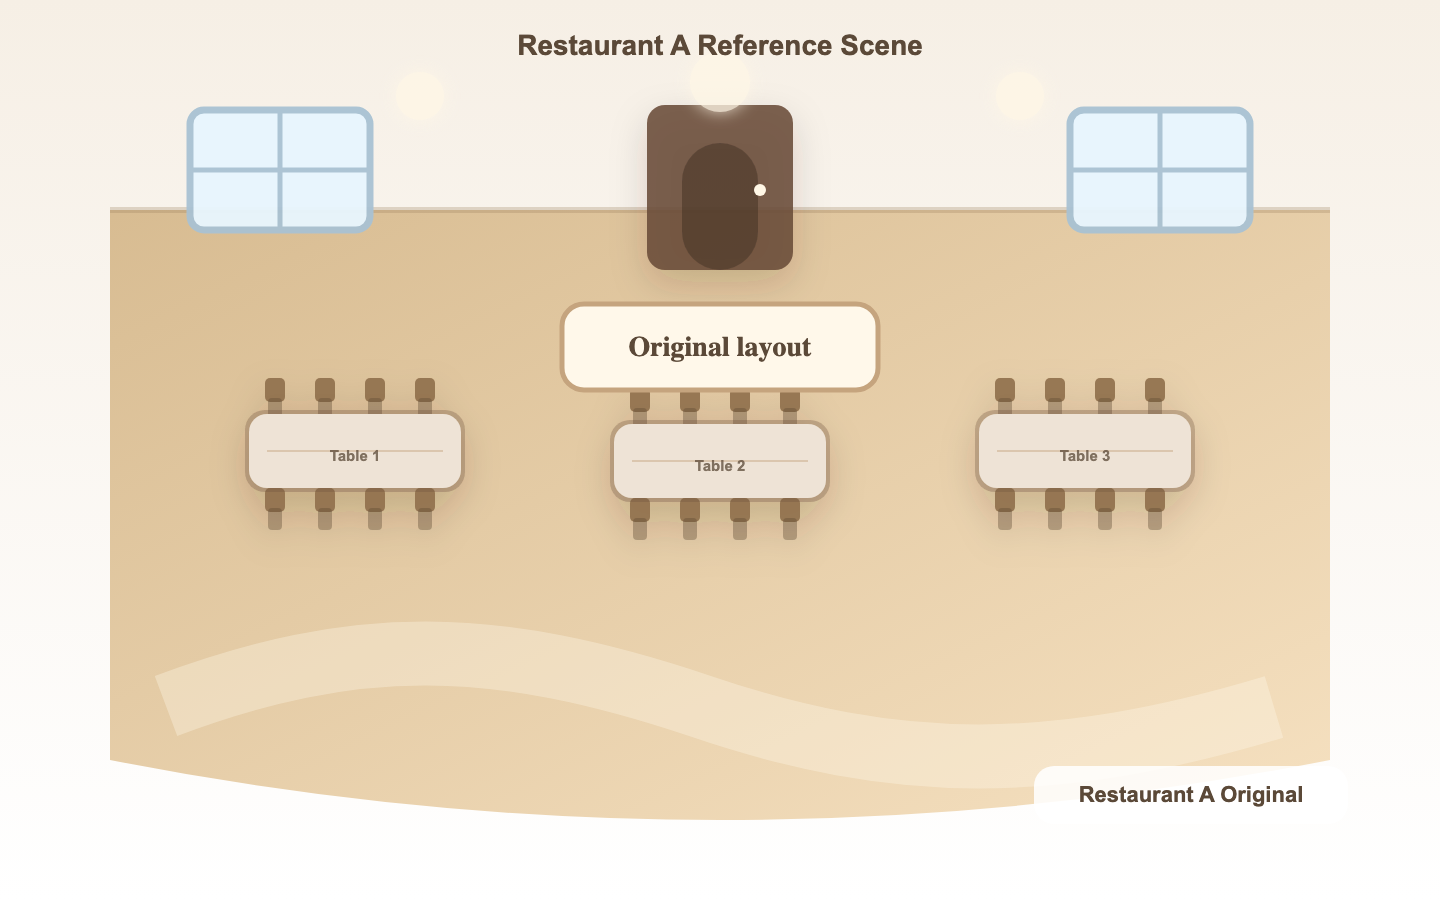
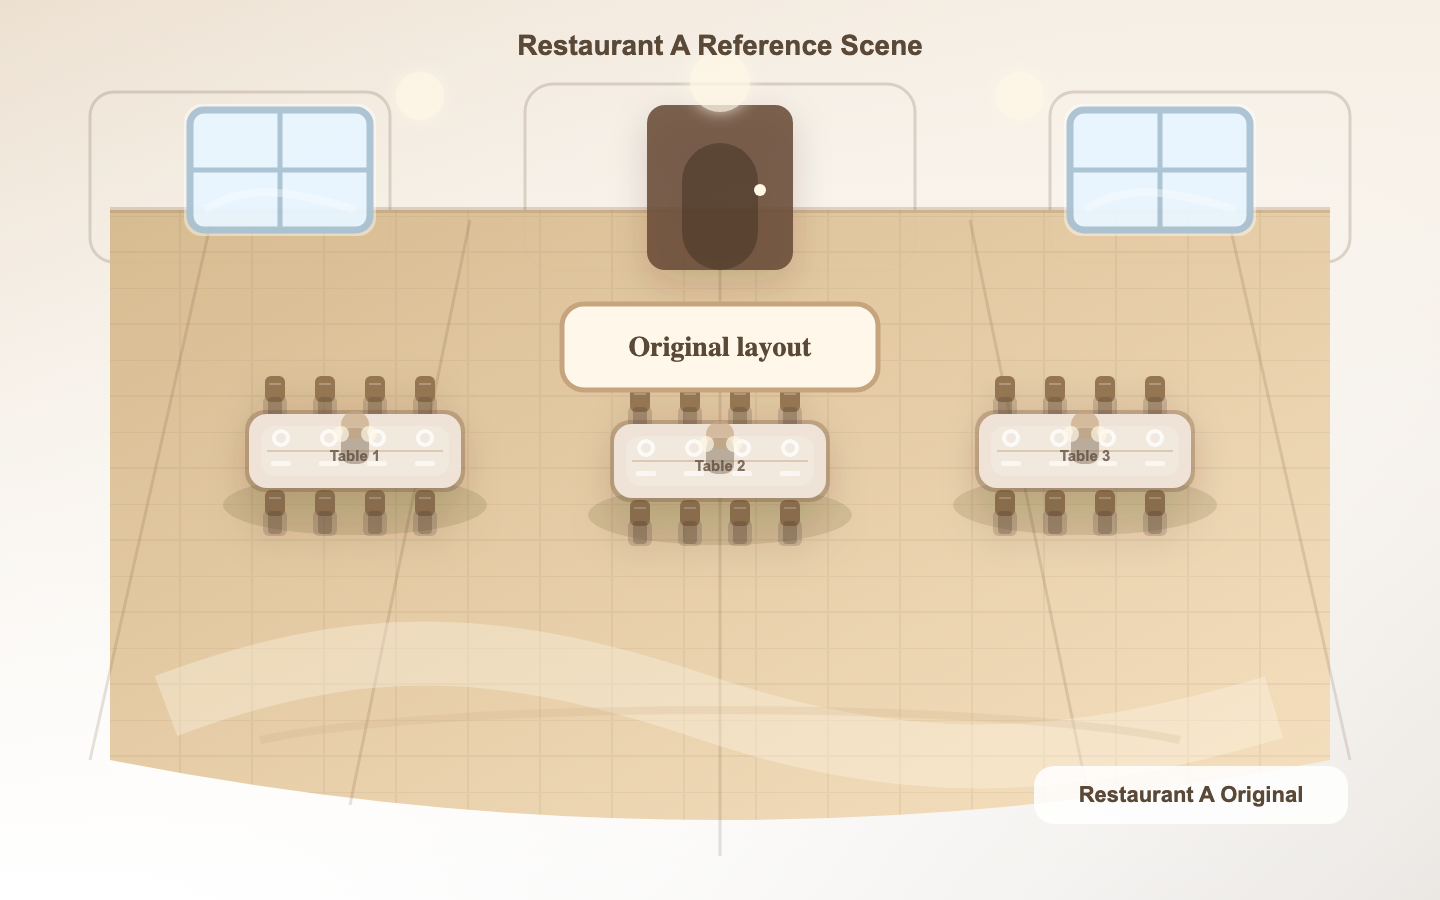
Upgrade visual scene rendering assets

diff --git a/docs/PARTYONCE_VISUAL_SCENE_RENDERING_UPGRADE_WORKPACK_20260514.md b/docs/PARTYONCE_VISUAL_SCENE_RENDERING_UPGRADE_WORKPACK_20260514.md
@@ -1,0 +1,157 @@
+# PartyOnce Visual Scene Rendering Upgrade Workpack 20260514
+
+## 1. 本轮目标
+
+本轮进入 Phase 2：视觉与场景渲染升级。
+
+目标不是新增普通功能，而是把 Restaurant A、Castle / Space / Forest 三主题、Basic / Standard / Premium 三档套餐从“可用图”继续推进到更有说服力的投资人和客户演示资产。
+
+本轮仍为 release candidate / staging preview 范围，不做 production deploy，不接真实 payment / Stripe，不触发 webhook / n8n，不外发 email / SMS / WhatsApp，不读取或修改 `.env.production`，不提交 `frontend/vue-app/dist`。
+
+## 2. 修改 / 新增文件
+
+- `frontend/vue-app/scripts/render_restaurant_a_assets.cjs`
+- `frontend/vue-app/public/party-assets/venues/restaurant-a/restaurant-a-original.png`
+- `frontend/vue-app/public/party-assets/venues/restaurant-a/restaurant-a-castle-basic.png`
+- `frontend/vue-app/public/party-assets/venues/restaurant-a/restaurant-a-castle-standard.png`
+- `frontend/vue-app/public/party-assets/venues/restaurant-a/restaurant-a-castle-premium.png`
+- `frontend/vue-app/public/party-assets/venues/restaurant-a/restaurant-a-space-basic.png`
+- `frontend/vue-app/public/party-assets/venues/restaurant-a/restaurant-a-space-standard.png`
+- `frontend/vue-app/public/party-assets/venues/restaurant-a/restaurant-a-space-premium.png`
+- `frontend/vue-app/public/party-assets/venues/restaurant-a/restaurant-a-forest-basic.png`
+- `frontend/vue-app/public/party-assets/venues/restaurant-a/restaurant-a-forest-standard.png`
+- `frontend/vue-app/public/party-assets/venues/restaurant-a/restaurant-a-forest-premium.png`
+- `frontend/vue-app/public/party-assets/packages/package-tier-matrix.png`
+- `docs/PARTYONCE_VISUAL_SCENE_RENDERING_UPGRADE_WORKPACK_20260514.md`
+
+## 3. Restaurant A 渲染升级内容
+
+升级 `render_restaurant_a_assets.cjs`，保留同一 Restaurant A 空间结构：
+
+- 桌子数量不变
+- 椅子数量不变
+- 窗户位置不变
+- 门位置不变
+- 主动线和地板透视不变
+
+增强项：
+
+- 墙面分区和软光层
+- 地板木纹 / 透视线
+- 桌面餐具、桌旗、桌花 / 中央摆件
+- 椅子阴影和材质层
+- 主题色氛围光
+- Basic / Standard / Premium 层级标签
+- 标准档甜品台
+- 高级档拍照区、背景板、灯光线和沉浸式拱门
+
+## 4. 三主题三档差异
+
+Castle Princess：
+
+- Basic：粉、紫、金基础桌布，小主题牌，少量气球。
+- Standard：Royal Dessert Table、气球拱门、金色层次、甜品台。
+- Premium：Photo Castle / Crown Wall、大型拱门、星光、全场金色框线。
+
+Space Explorer：
+
+- Basic：深蓝空间、星球、火箭、少量星星。
+- Standard：Mission Dessert Station、中型拱门、星球轨道、甜品台。
+- Premium：Launch Photo Bay / LED Star Wall、LED 星光、全场科技线。
+
+Forest Adventure：
+
+- Basic：藤蔓、木质 Trail 标识、自然色桌面。
+- Standard：Woodland Treat Table、森林动物、拱门、甜品台。
+- Premium：Camp Photo Nook / Forest Backdrop、灯串、藤蔓、全场森林框线。
+
+## 5. 套餐矩阵升级
+
+`frontend/vue-app/public/party-assets/packages/package-tier-matrix.png` 已更新为三主题九格矩阵：
+
+- Castle Princess Basic / Standard / Premium
+- Space Explorer Basic / Standard / Premium
+- Forest Adventure Basic / Standard / Premium
+
+矩阵明确说明：
+
+> Same room, same tables, same chairs. Only the decoration layer changes.
+
+该文件继续使用原 runtime path，因此现有页面无需额外结构改造即可读取升级后的矩阵图。
+
+## 6. 资产校验
+
+Restaurant A 10 张图：
+
+- 分辨率：`1440x900`
+- 文件均非 0
+- 本地 URL 均返回 `200 image/png`
+
+Package matrix：
+
+- 分辨率：`1800x1440`
+- 文件非 0
+- 本地 URL 返回 `200 image/png`
+
+## 7. 本地 build 结果
+
+命令：
+
+```bash
+cd frontend/vue-app
+npm run build -- --outDir /tmp/partyonce_visual_scene_phase2_build --emptyOutDir
+```
+
+结果：通过。
+
+说明：build 输出到 `/tmp/partyonce_visual_scene_phase2_build`，未写入或提交 `frontend/vue-app/dist`。Vite 仍有既有 chunk size warning，不阻断本轮。
+
+## 8. 本地 route smoke 结果
+
+本地 dev server：`http://127.0.0.1:5181/`
+
+验证 routes：
+
+- `/`：200，非空白，broken images = 0
+- `/ai-voice-intake`：200，非空白，broken images = 0
+- `/themes`：200，非空白，broken images = 0
+- `/quote`：200，非空白，broken images = 0
+- `/my/quotes`：200，非空白，broken images = 0
+- `/my/orders`：200，非空白，broken images = 0
+- `/admin/quotes`：200，非空白，broken images = 0
+- `/admin/orders`：200，非空白，broken images = 0
+- `/suppliers`：200，非空白，broken images = 0
+- `/payment/deposit`：200，非空白，broken images = 0
+
+Console error：0。
+
+## 9. 是否读取 / 修改 `.env.production`
+
+否。未读取、未修改 `.env.production`。
+
+## 10. 是否提交 dist
+
+否。未提交 `frontend/vue-app/dist`。
+
+## 11. 是否 production deploy
+
+否。
+
+## 12. 是否触发 payment / webhook / n8n / 外发
+
+否。未创建 PaymentIntent，未触发 webhook / n8n，未发送 email / SMS / WhatsApp。
+
+## 13. Blocker
+
+无本地代码 blocker。
+
+Preview 侧仍需确认 Vercel branch alias 是否指向最新 release candidate deployment；若固定 Preview URL 仍显示旧内容，需要在 Vercel Dashboard 检查最新 deployment 状态。
+
+## 14. 下一步建议
+
+进入 Phase 3：把升级后的视觉资产在投资人引导演示模式中做更强叙事包装，明确展示：
+
+1. AI 推荐为什么选这个主题和套餐；
+2. 同一 Restaurant A 如何从原貌变成三主题三档；
+3. Quote / My Quotes / Admin Quote 中为什么这些图片能支撑报价依据；
+4. 当前仍是 staging preview，不触发真实支付。
